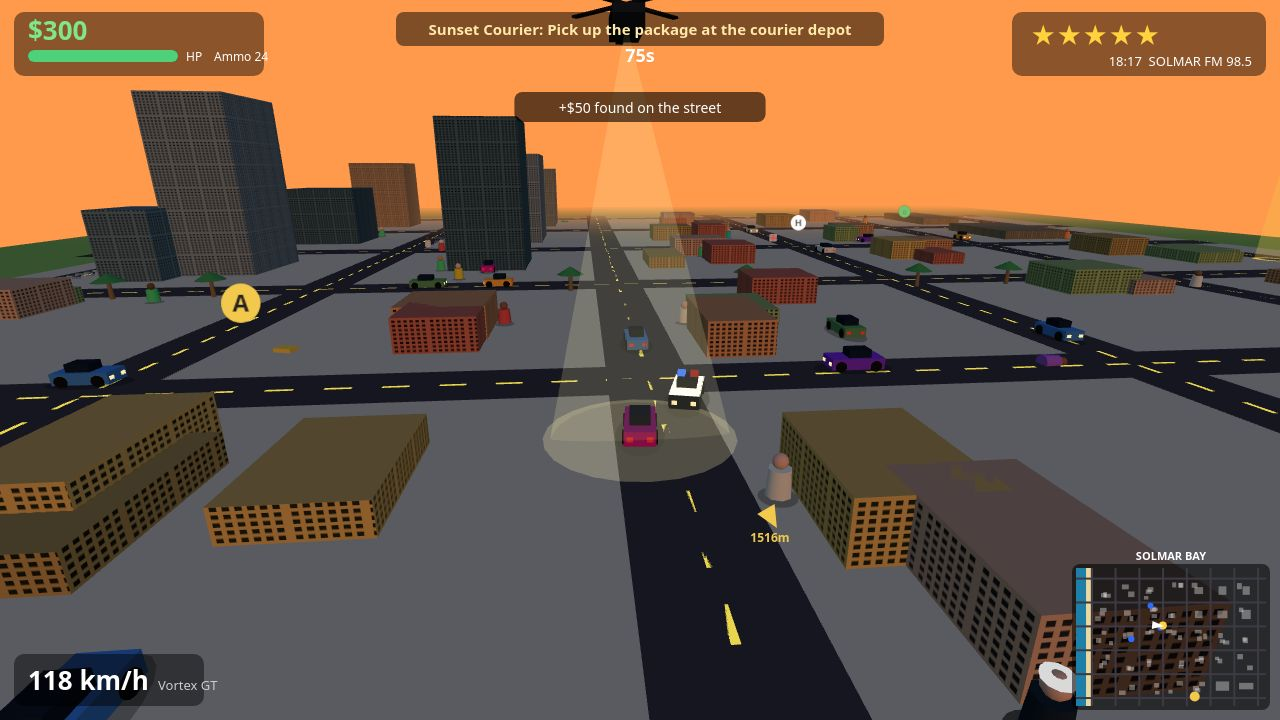
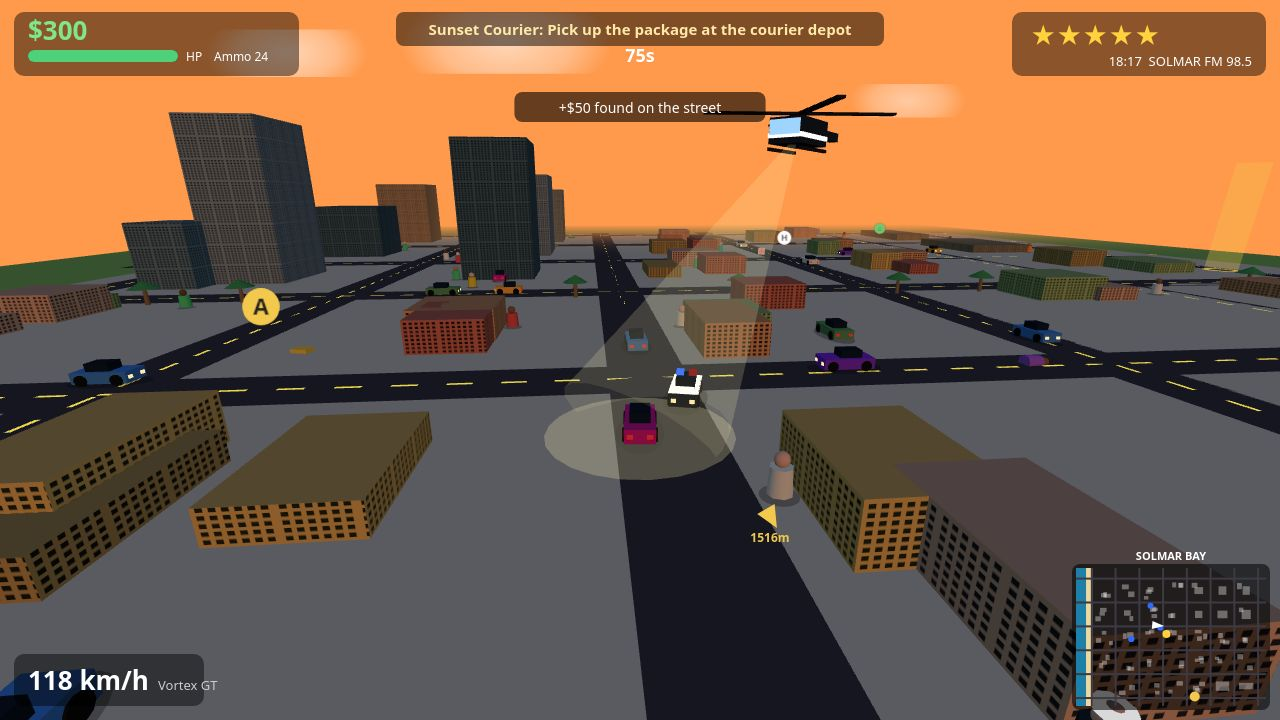
Framing pass: heli fully in frame, heli shot out of downtown, mission shot faces the city, clouds + sailboats, closer camera, HUD fixes

diff --git a/game/src/render3d.js b/game/src/render3d.js
@@ -102,7 +102,9 @@ export function createWorldRenderer(canvas) {
   const scene = new THREE.Scene();
   scene.background = new THREE.Color('#87b8d9');
   scene.fog = new THREE.Fog(0x87b8d9, 1400, 3200);
-  const camera = new THREE.PerspectiveCamera(62, VIEW_W / VIEW_H, 1, 7000);
+  // 68° (was 62°): the wider frame keeps the helicopter and the road ahead
+  // in shot without shrinking the player car to a speck.
+  const camera = new THREE.PerspectiveCamera(68, VIEW_W / VIEW_H, 1, 7000);
 
   const hemi = new THREE.HemisphereLight(0xbfd9ff, 0x6a7a52, 1.0);
   scene.add(hemi);
@@ -175,6 +177,45 @@ export function createWorldRenderer(canvas) {
     const slab = flat(WORLD_W - 300, WORLD_H - 100, COLORS.sidewalk, 0.08);
     slab.position.set(WORLD_W / 2 + 75, 0.08, WORLD_H / 2 + 50);
     g.add(slab);
+    // Clouds: soft white sprites high up, so the sky is never a flat empty
+    // band above the city (the old beach/mission shots were a third empty sky).
+    {
+      const c = document.createElement('canvas');
+      c.width = 256;
+      c.height = 128;
+      const x2 = c.getContext('2d');
+      const grad = x2.createRadialGradient(128, 64, 8, 128, 64, 120);
+      grad.addColorStop(0, 'rgba(255,255,255,0.95)');
+      grad.addColorStop(0.6, 'rgba(255,255,255,0.55)');
+      grad.addColorStop(1, 'rgba(255,255,255,0)');
+      x2.fillStyle = grad;
+      x2.fillRect(0, 0, 256, 128);
+      const cloudTex = new THREE.CanvasTexture(c);
+      const cloudMat = new THREE.SpriteMaterial({ map: cloudTex, transparent: true, depthWrite: false, opacity: 0.6 });
+      const cloudSpots = [[400, 460, 500], [1400, 500, 1800], [2400, 440, 900], [3200, 480, 2200], [900, 470, 2400], [2800, 500, 300], [1800, 450, 1300], [600, 490, 1400]];
+      for (const [cx, cy, cz] of cloudSpots) {
+        const sp = new THREE.Sprite(cloudMat);
+        sp.position.set(cx, cy, cz);
+        sp.scale.set(440, 120, 1);
+        g.add(sp);
+      }
+    }
+    // Sailboats on the ocean, so the beach shot's sea is not a flat blue slab.
+    for (const [bx, by] of [[-60, 500], [-110, 1100], [-40, 1700], [-100, 2300]]) {
+      const boat = new THREE.Group();
+      const hull = new THREE.Mesh(new THREE.BoxGeometry(34, 5, 13), new THREE.MeshLambertMaterial({ color: '#f2ead8' }));
+      hull.position.y = 2;
+      boat.add(hull);
+      const mast = new THREE.Mesh(new THREE.CylinderGeometry(1.2, 1.2, 34, 6), new THREE.MeshLambertMaterial({ color: '#5a4632' }));
+      mast.position.y = 20;
+      boat.add(mast);
+      const sail = new THREE.Mesh(new THREE.ConeGeometry(15, 32, 4), new THREE.MeshBasicMaterial({ color: 0xffffff }));
+      sail.position.y = 22;
+      sail.rotation.y = Math.PI / 4;
+      boat.add(sail);
+      boat.position.set(bx, 0, by);
+      g.add(boat);
+    }
     // Parks.
     for (const park of state.parks) {
       const p = flat(park.w, park.h, COLORS.park, 0.09);
@@ -291,8 +332,19 @@ export function createWorldRenderer(canvas) {
   const heliMain = new THREE.Mesh(new THREE.BoxGeometry(46, 16, 22), new THREE.MeshLambertMaterial({ color: '#1c2733' }));
   const heliTail = new THREE.Mesh(new THREE.BoxGeometry(52, 6, 6), new THREE.MeshLambertMaterial({ color: '#1c2733' }));
   heliTail.position.set(-44, 2, 0);
+  // Glass cockpit + white SBP stripe + landing skids, so the helicopter reads
+  // as a police helicopter at a glance instead of a dark box.
+  const heliGlass = new THREE.Mesh(new THREE.BoxGeometry(10, 9, 20), new THREE.MeshBasicMaterial({ color: 0x9fd4ff }));
+  heliGlass.position.set(20, 2, 0);
+  const heliStripe = new THREE.Mesh(new THREE.BoxGeometry(47, 3, 23), new THREE.MeshBasicMaterial({ color: 0xffffff }));
+  heliStripe.position.set(0, -3, 0);
+  for (const s of [-1, 1]) {
+    const skid = new THREE.Mesh(new THREE.BoxGeometry(44, 2, 2), new THREE.MeshLambertMaterial({ color: '#222' }));
+    skid.position.set(0, -11, s * 11);
+    heliBody.add(skid);
+  }
   const heliRotor = new THREE.Group();
-  const rotorBlade = new THREE.Mesh(new THREE.BoxGeometry(110, 1.5, 5), new THREE.MeshLambertMaterial({ color: '#222' }));
+  const rotorBlade = new THREE.Mesh(new THREE.BoxGeometry(130, 1.5, 5), new THREE.MeshLambertMaterial({ color: '#222' }));
   const rotorBlade2 = rotorBlade.clone();
   rotorBlade2.rotation.y = Math.PI / 2;
   heliRotor.add(rotorBlade);
@@ -300,7 +352,12 @@ export function createWorldRenderer(canvas) {
   heliRotor.position.y = 12;
   heliBody.add(heliMain);
   heliBody.add(heliTail);
+  heliBody.add(heliGlass);
+  heliBody.add(heliStripe);
   heliBody.add(heliRotor);
+  // Bigger airframe (1.35x): the old helicopter was a speck once the camera
+  // pulled back, and only its rotor ever made it into frame.
+  heliBody.scale.setScalar(1.35);
   heliGroup.add(heliBody);
   const heliCone = new THREE.Mesh(
     new THREE.ConeGeometry(60, 1, 20, 1, true),
@@ -643,8 +700,10 @@ export function createWorldRenderer(canvas) {
       desired.set(2100 + Math.cos(a) * 1000, 560, 1000 + Math.sin(a) * 700);
       look.set(2100, 40, 1000);
     } else {
-      const dist3 = p.inCar ? 370 : 240;
-      const height = p.inCar ? 170 : 125;
+      // Closer than before (was 370/240): the player car filled too little of
+      // the frame in the beach shot, and the helicopter sat on the frame edge.
+      const dist3 = p.inCar ? 335 : 215;
+      const height = p.inCar ? 155 : 110;
       const fx = Math.cos(p.angle);
       const fy = Math.sin(p.angle);
       desired.set(p.x - fx * dist3, height, p.y - fy * dist3);

diff --git a/game/src/shots.js b/game/src/shots.js
@@ -10,7 +10,7 @@ import { SCREEN_PLAY, SCREEN_TITLE } from './render.js';
 const SAMPLE = STEP;
 const CHASE_SECONDS = 26;
 const HELI_SECONDS = 22;
-const MISSION_SECONDS = 3;
+const MISSION_SECONDS = 0.35;
 const BEACH_SECONDS = 20;
 
 /** Drive control steering toward a point 400 px ahead on the current road. */
@@ -148,14 +148,22 @@ export function stageShot(name, world) {
     return { screen: SCREEN_PLAY, save: null };
   }
   if (name === 'mission') {
-    // Dockside Deal on foot: Mara at the south docks, crate marker ahead, 2 stars.
+    // Dockside Deal on foot: Mara approaches crate 3 from the SOUTH, walking
+    // NORTH into the city — the old shot walked south toward the world edge,
+    // so the frame was grey sidewalk, flat horizon and empty sky. Facing north
+    // the background is roads, houses, traffic and downtown towers. Jump the
+    // mission to step 2 (crate 3 at 1500,2350) and start 170px south of it.
     st.clock = 10.5;
     st.fareTimer = 9999;
     world.startMission(4);
+    st.mission.step = 2;
     world.addWanted(2);
-    st.player.x = 520;
-    st.player.y = 2220;
-    st.player.angle = Math.PI / 2;
+    // 1.2s walked too far and collected the crate (banner flipped to the next
+    // step, beacon gone). 0.35s at sprint 265/s = ~93px: ends ~97px short of
+    // the crate, outside the 70px collect radius, crate + beacon stay in frame.
+    st.player.x = 1500;
+    st.player.y = 2540;
+    st.player.angle = -Math.PI / 2;
     for (let i = 0; i < MISSION_SECONDS / SAMPLE; i += 1) {
       const step = world.currentStep();
       if (step && step.x !== undefined) {
@@ -170,16 +178,19 @@ export function stageShot(name, world) {
   if (name === 'heli') {
     // Night manhunt: 5 stars, the helicopter searchlight on the player, interceptors
     // all around, lit downtown windows. King of Solmar is live — the finale.
+    // Loop in the houses district (1200-1650, 1100-1550), NOT downtown: the old
+    // loop ran between two giant towers that filled a third of the frame each
+    // and squeezed the player car to a speck between them.
     st.clock = 21.5;
     st.fareTimer = 9999;
-    st.player.x = 2100;
-    st.player.y = 650;
+    st.player.x = 1200;
+    st.player.y = 1100;
     putPlayerInCar(world, 'muscle');
     world.addWanted(5);
     world.startMission(9);
     const drive = makeLoopDriver([
-      { x: 2550, y: 650 }, { x: 2550, y: 1100 },
-      { x: 2100, y: 1100 }, { x: 2100, y: 650 },
+      { x: 1650, y: 1100 }, { x: 1650, y: 1550 },
+      { x: 1200, y: 1550 }, { x: 1200, y: 1100 },
     ]);
     for (let i = 0; i < HELI_SECONDS / SAMPLE; i += 1) {
       world.step(SAMPLE, drive(world));

diff --git a/game/src/police.js b/game/src/police.js
@@ -81,10 +81,14 @@ export function stepHeli(ctx, dt) {
   const heli = state.heli;
   if (!heli) return;
   const p = state.player;
-  // Hover ahead of the player, so the helicopter is in the chase camera's frame
-  // and its searchlight rakes forward onto them.
-  const tx = p.x + Math.cos(p.angle) * 220;
-  const ty = p.y + Math.sin(p.angle) * 220;
+  // Hover ahead AND to the side of the player, lower than before: dead-ahead
+  // at z=260 put the helicopter right on the top edge of the chase camera's
+  // frame (only the rotor showed). 300 ahead + 170 to the side at z=200 keeps
+  // the whole helicopter in frame while its searchlight still rakes the player.
+  const fx = Math.cos(p.angle);
+  const fy = Math.sin(p.angle);
+  const tx = p.x + fx * 300 - fy * 170;
+  const ty = p.y + fy * 300 + fx * 170;
   const d = dist(heli.x, heli.y, tx, ty);
   if (heli.leaving) {
     // Fly away from the city and leave.
@@ -97,7 +101,7 @@ export function stepHeli(ctx, dt) {
     return;
   }
   // Hover ahead of the player, searchlight on them.
-  const want = 260;
+  const want = 200;
   heli.angle = Math.atan2(p.y - heli.y, p.x - heli.x);
   const ma = Math.atan2(ty - heli.y, tx - heli.x);
   const speed = d > 120 ? 460 : 300;

diff --git a/game/src/render.js b/game/src/render.js
@@ -87,7 +87,8 @@ export function createRenderer(gameCanvas, hudCanvas) {
     const p = state.player;
     // Top-left: money + health.
     ctx.fillStyle = 'rgba(0,0,0,0.45)';
-    roundRect(ctx, 14, 12, 250, 64, 10);
+    // 285 wide (was 250): "Ammo 24" at x=214 ran past the box edge and clipped.
+    roundRect(ctx, 14, 12, 285, 64, 10);
     ctx.fill();
     ctx.fillStyle = '#7ee787';
     text(`$${Math.floor(p.money).toLocaleString('en-US')}`, 28, 40, 26, '#7ee787', 'left', 'bold');
@@ -148,8 +149,10 @@ export function createRenderer(gameCanvas, hudCanvas) {
       text('E: enter car   Space: punch   Click: shoot', 18, VIEW_H - 18, 13, 'rgba(255,255,255,0.85)');
     }
     // Wanted flash.
+    // y=152 (was 130): the toast box ends at y=122 and the 16px WANTED text
+    // overlapped its bottom edge in the heli/mission shots.
     if (state.wanted > 0 && Math.floor(state.elapsed * 2) % 2 === 0) {
-      text('WANTED', VIEW_W / 2, 130, 16, '#ff6b6b', 'center', 'bold');
+      text('WANTED', VIEW_W / 2, 152, 16, '#ff6b6b', 'center', 'bold');
     }
     drawMinimap(state);
     // Off-screen objective arrow.
